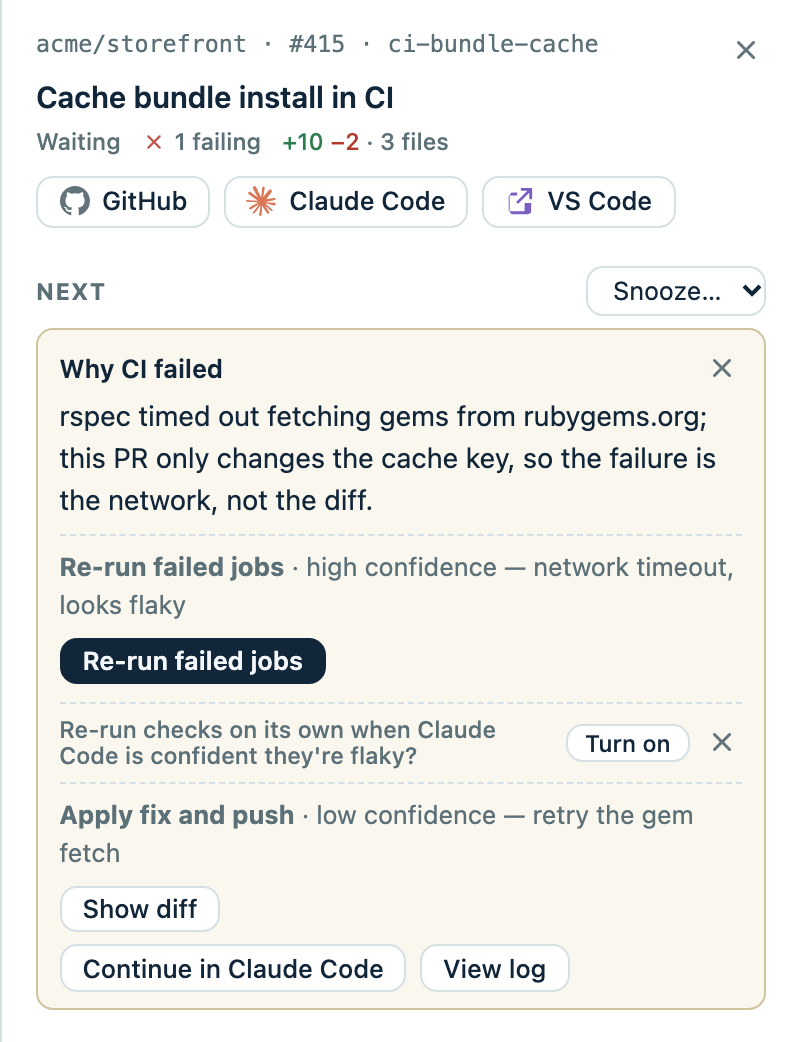
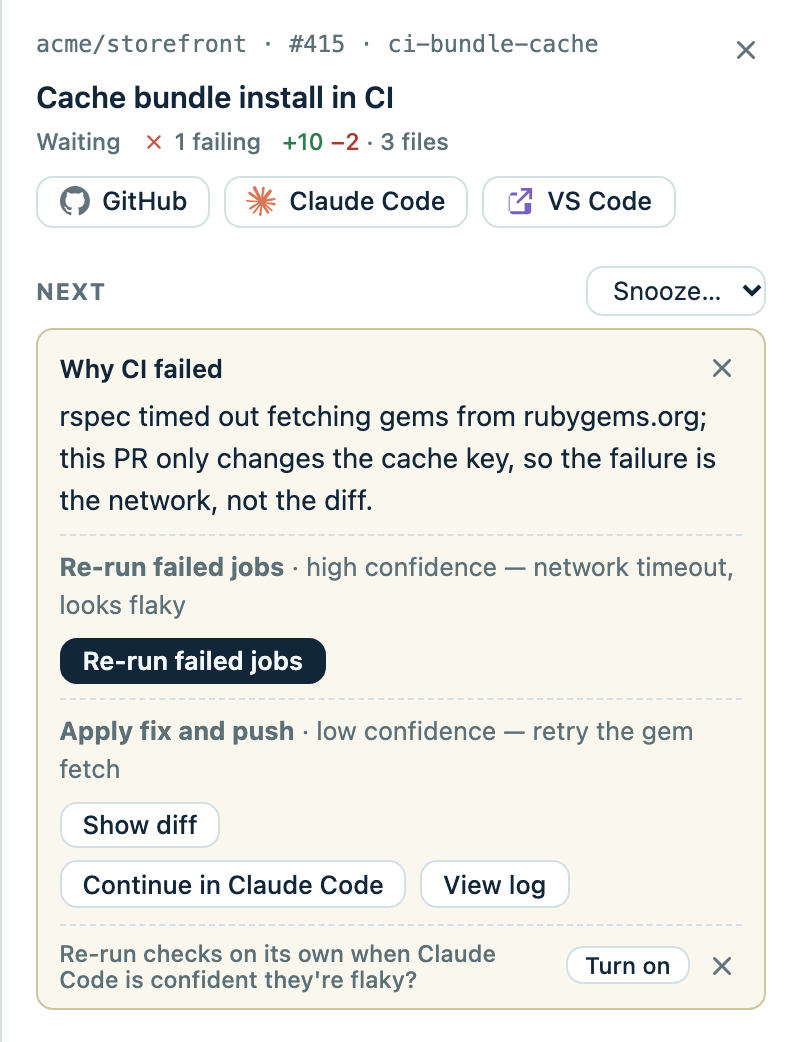
Tidy three bits of sidebar copy (#231)
Activity times read "2 hours" with no "ago". The offer to re-run flaky
checks automatically sat between two proposals and split them; it now
closes the card. The auto-approve note quoted a config key where a link
to the setting does the job.

diff --git a/js/sidebar.js b/js/sidebar.js
@@ -258,7 +258,6 @@ function proposalHtml(pr, card, p, i, bare = false, lead = false) {
       ${bare ? "" : `<div class="nc-reason"><strong>${esc(label)}</strong> · ${esc(p.confidence)} confidence${where} — ${fmtCode(p.reason || "")}</div>`}
       ${body}
       <div class="nc-actions">${button}</div>
-      ${p.action === "rerun_checks" ? suggestHtml("rerun_checks") : ""}
     </div>`;
 }
 
@@ -325,7 +324,8 @@ function serverCardHtml(pr, card, first) {
   const proposals = list.map((p, i) => proposalHtml(pr, card, p, i, i === vi, i === lead)).join("");
   return `<div class="${cls}"><div class="nc-head">${title}${dismiss}</div>${verdict}${held}
     ${verdict ? '<div class="nc-label">Summary</div>' : ""}<p>${fmtCode(card.summary || "")}</p>${proposals}
-    ${review && !openKept ? "" : `<div class="nc-actions">${openKept}${review ? "" : continueButton(pr, leadContinue ? "primary" : "")}${rerun}${rerequest}${viewLog}</div>`}</div>`;
+    ${review && !openKept ? "" : `<div class="nc-actions">${openKept}${review ? "" : continueButton(pr, leadContinue ? "primary" : "")}${rerun}${rerequest}${viewLog}</div>`}
+    ${list.some((p) => p.action === "rerun_checks") ? suggestHtml("rerun_checks") : ""}</div>`;
 }
 
 function rerequestButton(reviewers, cardId, cls = "") {
@@ -431,13 +431,13 @@ function autoApproveSection(pr) {
   if (!setting || pr.mergedAt || !isReviewPr(pr)) return "";
   const rule = state.serverState?.config?.approveRereview;
   const why = automationHeld() ? "Held: Shipyard isn't acting on its own until you turn it on."
-    : !rule ? "Off for every PR: auto.approve_rereview is false in shipyard.config.json."
-    : AUTO_BY[setting.by] ? `${AUTO_BY[setting.by]}${setting.why ? `: ${setting.why}` : "."}`
-    : setting.on ? "On because your last review approved it." : "Off because your last review didn't approve it.";
+    : !rule ? 'Off for every PR. Turn it on in <a href="#settings/rules/reviews">Settings</a>.'
+    : esc(AUTO_BY[setting.by] ? `${AUTO_BY[setting.by]}${setting.why ? `: ${setting.why}` : "."}`
+      : setting.on ? "On because your last review approved it." : "Off because your last review didn't approve it.");
   return `<div class="sb-section"><div class="sb-h">Auto-approve</div><div class="sb-auto">
     <label><input type="checkbox" data-auto-approve="${esc(prKey(pr))}"${setting.on && rule ? " checked" : ""}${rule ? "" : " disabled"}>
       Approve on its own when a re-review finds my review addressed</label>
-    <div class="auto-why">${esc(why)}</div></div></div>`;
+    <div class="auto-why">${why}</div></div></div>`;
 }
 
 function sessionSection(pr) {
@@ -511,7 +511,7 @@ function activitySection(pr) {
   ].filter((e) => e.at).sort((a, b) => new Date(b.at) - new Date(a.at)).slice(0, 25);
   if (!entries.length) return "";
   return `<div class="sb-section"><div class="sb-h">Activity</div><ul class="sb-activity">${entries.map((e) =>
-    `<li><span class="act-when">${agoSpan(e.at, true)}</span><span>${e.shipyard ? '<span class="act-shipyard">Shipyard</span> ' : ""}${esc(e.text)}</span></li>`).join("")}</ul></div>`;
+    `<li><span class="act-when">${agoSpan(e.at)}</span><span>${e.shipyard ? '<span class="act-shipyard">Shipyard</span> ' : ""}${esc(e.text)}</span></li>`).join("")}</ul></div>`;
 }
 
 export function renderSidebar() {

diff --git a/app.css b/app.css
@@ -723,6 +723,7 @@ body.sidebar-open #sidebar { transform: none; visibility: visible; }
 .sb-auto label { display: flex; align-items: flex-start; gap: 0.375rem; font: 500 0.75rem var(--sans); cursor: pointer; }
 .sb-auto input { margin: 0.1875rem 0 0; accent-color: var(--teal); }
 .sb-auto .auto-why { color: var(--fg-muted); font: 500 0.6875rem var(--sans); }
+.sb-auto .auto-why a { color: var(--teal); text-decoration: underline; text-underline-offset: 2px; }
 .next-card .nc-held { color: var(--gold-text); font-size: 0.75rem; border-left: 2px solid var(--gold); padding-left: 0.5rem; }
 .sb-session { font-size: 0.75rem; display: flex; flex-direction: column; gap: 0.25rem; }
 .sb-session .sess-title { font-weight: 600; font-size: 0.8125rem; }
@@ -738,7 +739,7 @@ body.sidebar-open #sidebar { transform: none; visibility: visible; }
 .btn-link:hover { background: var(--btn-hover); color: var(--fg); text-decoration: none; }
 .sb-activity { list-style: none; margin: 0; padding: 0; font-size: 0.75rem; }
 .sb-activity li { display: flex; gap: 0.5rem; padding: 0.1875rem 0; border-bottom: 1px solid var(--border-soft); }
-.sb-activity .act-when { flex: none; width: 4.5rem; color: var(--fg-faint); font: 500 0.6875rem var(--sans); }
+.sb-activity .act-when { flex: none; width: 5.75rem; color: var(--fg-faint); font: 500 0.6875rem var(--sans); }
 .sb-activity .act-shipyard { color: var(--claude-text); font-weight: 600; }
 .server-err { color: var(--red-text); }
 

diff --git a/js/html.js b/js/html.js
@@ -55,17 +55,11 @@ export function timeAgo(iso) {
 }
 
 // The server's quiet polls don't re-render, so these labels age in place.
-function agoText(at, short) {
-  const text = timeAgo(at);
-  return short ? text.replace(" ago", "") : text;
-}
-
-export const agoSpan = (at, short = false) =>
-  `<span data-ago="${new Date(at).getTime()}"${short ? " data-short" : ""}>${agoText(at, short)}</span>`;
+export const agoSpan = (at) => `<span data-ago="${new Date(at).getTime()}">${timeAgo(at)}</span>`;
 
 export function refreshAgoLabels() {
   document.querySelectorAll("[data-ago]").forEach((el) => {
-    el.textContent = agoText(Number(el.dataset.ago), el.hasAttribute("data-short"));
+    el.textContent = timeAgo(Number(el.dataset.ago));
   });
 }
 
